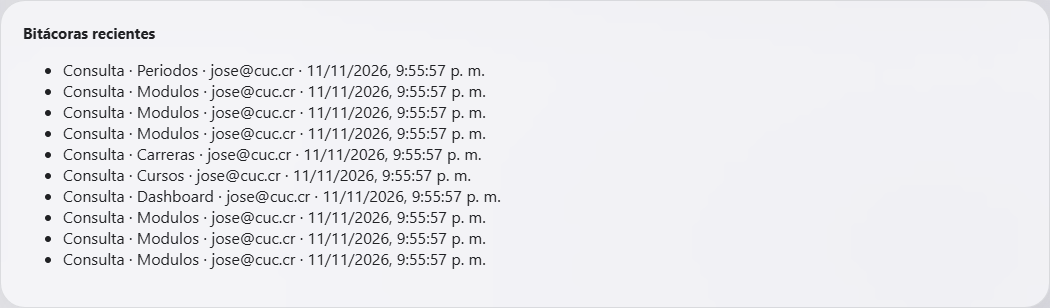
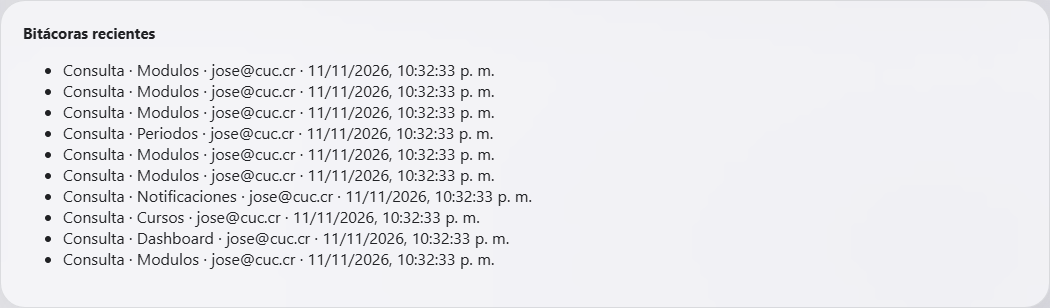
Verificar migraciones y resumen de ADM3

diff --git a/docs/segundo_avance/pruebas/fabian/resultado_pruebas_reales.md b/docs/segundo_avance/pruebas/fabian/resultado_pruebas_reales.md
@@ -11,10 +11,12 @@ no las contienen ni imprimen tokens. Los datos temporales se eliminaron al termi
 | ADM3 | Indicadores contra las consultas reales | Usuarios 8, carreras 5, cursos 4, períodos activos 1, facturas pendientes 0 |
 | ADM3 | Facturas | Consulta existente acotada por `periodoId`; `ADM20` asignado al administrador |
 | ADM3 | Dashboard administrador | Diez bitácoras recientes visibles; captura guardada |
-| ADM3 | Dashboard profesor | Sesión docente, grupo activo y curso comprobados; siete eventos propios, máximo diez; captura guardada |
+| ADM3 | Dashboard profesor | Sesión docente, grupo activo y curso comprobados; diez eventos propios, máximo diez; capturas guardadas |
+| ADM3 | Notificaciones de ambos perfiles | HTTP 200; lista vacía porque no hay envíos registrados; capturas guardadas |
 | ADM4 | Alta, detalle, edición y baja de usuario | HTTP 201, 200, 200 y 204; consulta posterior 404; fecha de modificación presente |
 | ADM4 | Bloqueo de API y URL con cuenta estudiantil | HTTP 403 y redirección al portal estudiantil |
 | ADM5 | Revocación y restauración de `ADM8` | Menú actualizado sin recargar; operación revocada HTTP 403; permiso original restaurado |
+| ADM5 | Índice único de nombres de roles | `UX_rol_nombre_rol` presente en `PrograV_Rol` |
 | ADM6 | Alta, consulta, edición y baja de parámetro | HTTP 201, 200, 200 y 200; consulta posterior 404 |
 | ADM8 | Edición y persistencia de institución | HTTP 200 y lectura posterior con el valor actualizado |
 | ADM8 | Baja con carrera vinculada | HTTP 409; institución conservada hasta eliminar la referencia |
@@ -26,22 +28,22 @@ en la base real. La política de contraseña vigente y su relación con ADM24 se
 documentan en `docs/segundo_avance/requerimientos/politica-contrasena-adm24.md`.
 
 Las capturas de ADM3 están en `evidencias/adm3_indicadores.png`,
-`evidencias/adm3_bitacoras_admin.png` y `evidencias/adm3_profesor.png`.
+`evidencias/adm3_bitacoras_admin.png`, `evidencias/adm3_profesor.png`,
+`evidencias/adm3_bitacoras_profesor.png`,
+`evidencias/adm3_notificaciones_admin.png` y
+`evidencias/adm3_notificaciones_profesor.png`.
 Las pruebas se reproducen con los scripts de este directorio y
 `NuevoAvatar.Estudiante.React/tests/reales/`.
 
-## Dependencias de la base compartida
+## Migraciones de la base compartida
 
-- El resumen de notificaciones de ADM3 responde 503 porque falta
-  `general.Notificacion` en `PrograV_Notificacion`. La migración existente es
-  `db/por_servicio/migraciones/003_notificacion_historial.sql`. El usuario SQL
-  disponible no tiene permiso `CREATE TABLE` ni `ALTER` sobre ese esquema.
-- El índice de nombres únicos de roles `UX_rol_nombre_rol` aún no está aplicado
-  en `PrograV_Rol`. El script existente es
-  `db/por_servicio/migraciones/004_rol_nombre_unico.sql`. El usuario SQL
-  disponible no tiene permiso `ALTER` sobre la tabla. La API sí rechaza nombres
-  duplicados; el índice permanece pendiente de aplicación por el administrador
-  de la base.
+Los scripts `db/por_servicio/migraciones/003_notificacion_historial.sql` y
+`db/por_servicio/migraciones/004_rol_nombre_unico.sql` fueron aplicados por el
+equipo. Se comprobó la existencia de `general.Notificacion` en
+`PrograV_Notificacion` y del índice `UX_rol_nombre_rol` en `PrograV_Rol`.
+El servicio de notificaciones inició con validación del esquema y el resumen de
+ADM3 respondió HTTP 200 para ambos perfiles. La lista está vacía porque no hay
+notificaciones registradas; no se efectuó un envío de correo en esta prueba.
 
 El rol `PROFESOR`, la cuenta docente y su grupo se crearon solo para comprobar
 ADM3 y se eliminaron. Las asignaciones originales de módulos quedaron restauradas.
